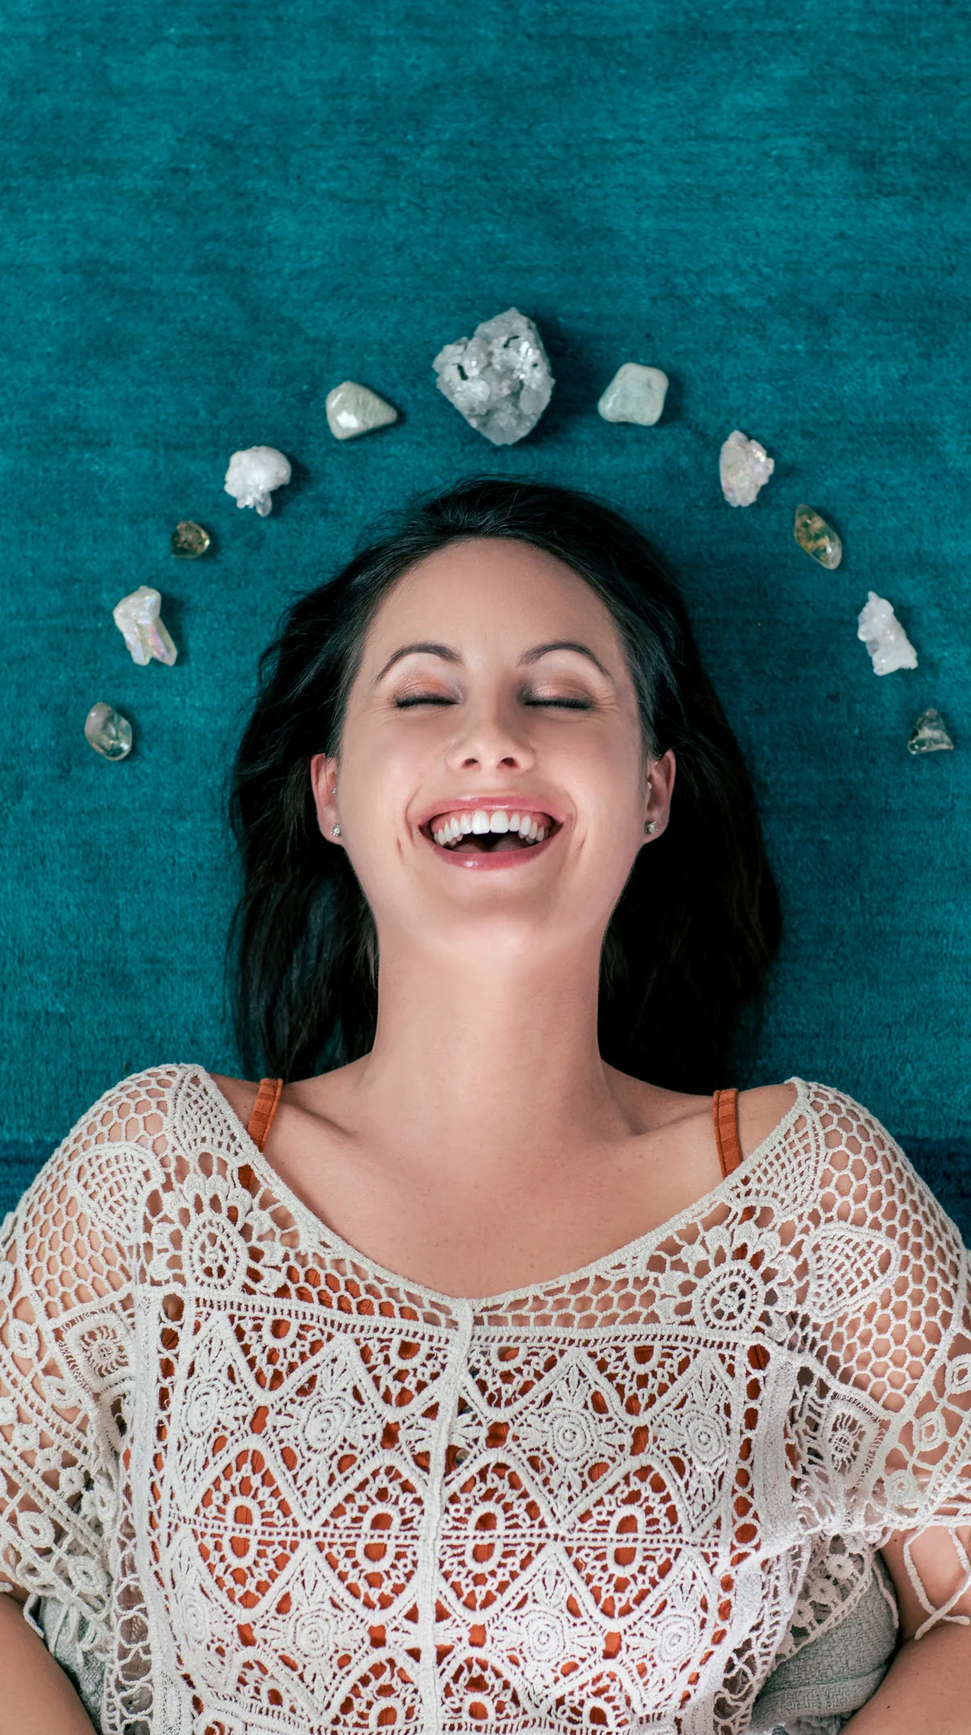
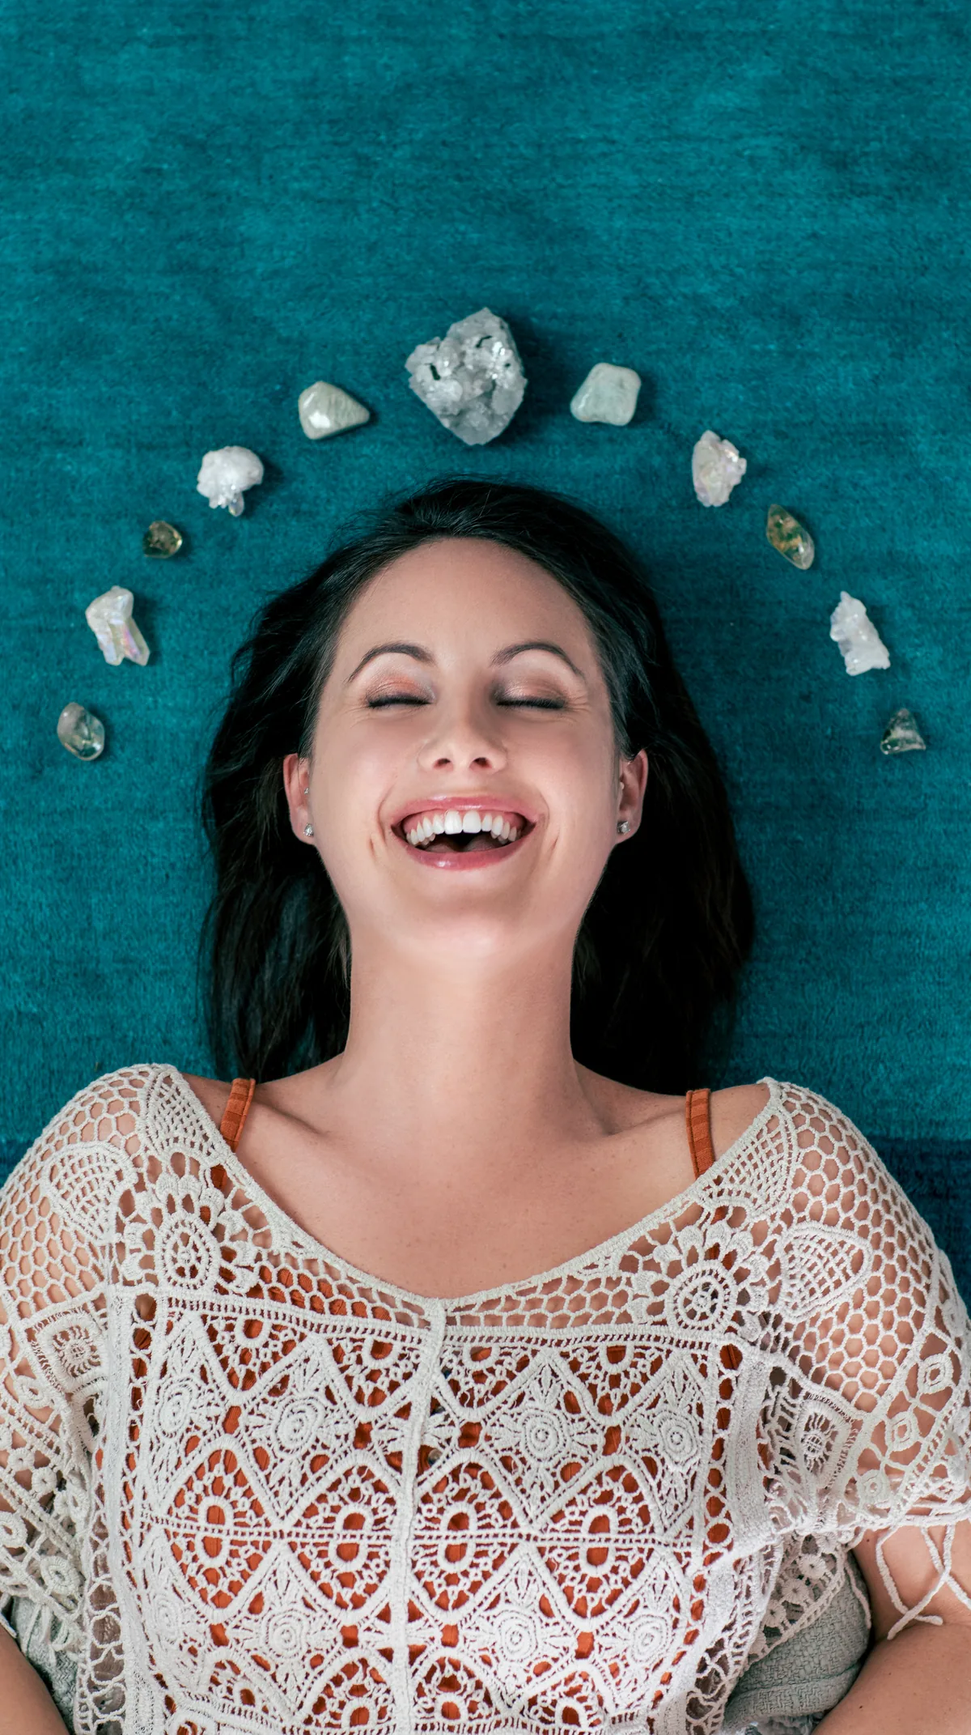
Happy is the page's own hero, and the lab becomes a chooser the client can use
THE PHOTOGRAPH. The woman on teal, laughing, an arc of clear quartz laid
around her head - Clay: "lets use happy for now". The <picture> now ships
her; stacks stays in the table as one of the options.

THE DESKTOP CROP. A 2:1 band holds a third of this photograph's height,
and the arc's top stone to her chin is two fifths, so the band cannot
hold both. Clay asked for the stones: object-position 50% 26% shows the
whole arc with air above the top stone and keeps the laugh; the chin
goes, and the headline sits over her hair on the left.

THE PHONE CROP. The arc is 2.4% right of the photograph's centre, which
on a phone read as more teal on the left than the right. The phone crop
is cut around the arc's centre now (found by the stones themselves: the
low-saturation, high-value pixels in the top half), not the photograph's.

THE CHOOSER. Clay: "get rid of the other filters.. just keep images" and
"could we add a little pop up to the vercel link?? so they can switch
between images?". The rail, the wave and the copy toggles are gone. What
is left is a small CHANGE PHOTO pill bottom-right that opens a strip of
eleven thumbnails. A pick is remembered in the browser, so the client
sees their choice on every reload rather than on one; a shared ?hero=
link wins over the memory and becomes it; ?lab=1 opens the strip on
arrival; ?lab=0 removes the pill for a clean demo.

THE ELEVEN, in Clay's order: happy, med, amethyst, mono, pendant, knit,
[…]

diff --git a/index.html b/index.html
@@ -292,7 +292,7 @@ html{scroll-padding-top:96px;}
 .hero{--hero-ink:#FFFFFF;--hero-soft:#E9E0D3;--hero-sub:#F0C79C;
   --hero-accent:#E8B183;--hero-shadow:0 2px 26px rgba(12,8,4,.5);}
 .hero-shot{position:absolute;inset:0;width:100%;height:100%;object-fit:cover;
-  object-position:50% 38%;z-index:0;}
+  object-position:50% 26%;z-index:0;}
 /* the crop only ever slides sideways, and that is the axis that decides
    whether the device sits clear of the words. On a phone the frame is much
    narrower than the source, so it lifts to keep the product in view */
@@ -347,7 +347,7 @@ html{scroll-padding-top:96px;}
      gone the hero grows back into the room it leaves */
   body:not(:has(.emh-ann)) .hero{--hdr:90px;}
   .hero-shot{position:absolute;inset:0;flex:none;aspect-ratio:auto;height:100%;
-    object-position:50% 30%;}
+    object-position:50% 36%;}
   .hero picture{position:absolute;inset:0;display:block}
   .hero-bg{inset:0;height:auto;}
   .herowave{inset:0;height:100%;}
@@ -1816,14 +1816,14 @@ h1:has(> .s), h2:has(> .s){max-width:min(34ch,100%)}
   <div class="hero-grain" aria-hidden="true"></div>
   <picture id="heropic">
     <source media="(max-width:840px)" type="image/webp"
-            srcset="assets/img/life/em-hero-stacks-p-600.webp 600w, assets/img/life/em-hero-stacks-p-900.webp 900w, assets/img/life/em-hero-stacks-p-1200.webp 1200w"
+            srcset="assets/img/life/em-hero-happy-p-600.webp 600w, assets/img/life/em-hero-happy-p-900.webp 900w, assets/img/life/em-hero-happy-p-1200.webp 1200w"
             sizes="100vw">
     <source type="image/webp"
-            srcset="assets/img/life/em-hero-stacks-1200.webp 1200w, assets/img/life/em-hero-stacks-1800.webp 1800w, assets/img/life/em-hero-stacks-2400.webp 2400w"
+            srcset="assets/img/life/em-hero-happy-1200.webp 1200w, assets/img/life/em-hero-happy-1800.webp 1800w, assets/img/life/em-hero-happy-2400.webp 2400w"
             sizes="100vw">
-    <img class="hero-shot" src="assets/img/life/em-hero-stacks.jpg"
+    <img class="hero-shot" src="assets/img/life/em-hero-happy.jpg"
          fetchpriority="high" decoding="async"
-         alt="A woman resting her chin on her hands, stacked crystal bracelets on both wrists">
+         alt="A woman lying on teal, laughing, an arc of clear quartz laid around her head">
   </picture>
   <canvas class="herowave" id="herowave" aria-hidden="true"></canvas>
   <div class="wrap hero-grid">
@@ -2571,199 +2571,132 @@ document.querySelectorAll('.reel[data-video]').forEach(function(r){
 
 <script src="/assets/em-form.js?v=1" defer></script>
 <script>
-/* The hero lab.
+/* The hero chooser.
  *
- * Every decision about this hero so far has been made from a contact sheet or
- * a screenshot. These flags make it on the real page instead, with real type
- * over real photographs at the real widths, and nothing here touches the
- * default: no parameter, no effect.
+ * Eleven photographs, chosen on Sept 2 from two Drive drops and the older
+ * candidates. The page ships with happy; the other ten are here so the
+ * client can flip between them on the live prototype without editing a URL.
+ * A small pill sits bottom-right and opens a strip of thumbnails. A pick is
+ * remembered in this browser, so the whole review session shows it - a
+ * chooser that forgets on the next page is a demo of the chooser, not of
+ * the photograph.
  *
- *   ?hero=<name>                 any photograph in HEROES below (stacks is the page's own)
- *   ?type=rail                   the frequency plinth under the headline
- *   ?copy=seven                 the subhead the rail sets up
- *   ?lab=1                      the switcher, so nobody edits a URL by hand
+ *   ?hero=<name>   one photograph, and a link that shares it
+ *   ?lab=1         open the strip on arrival
+ *   ?lab=0         no pill at all - a clean demo
  *
  * The photograph swap runs before paint so the browser never fetches the
  * default first - a hero that flickers between two pictures is a worse
- * comparison than either on its own. The DOM additions wait for the frequency
- * list, which is deferred. */
+ * comparison than either on its own. Nothing here touches the crop rules or
+ * the type; each entry only carries where its own face is. */
 (function () {
   var q = location.search;
   function get(k) { var m = q.match(new RegExp('[?&]' + k + '=([^&]*)')); return m ? decodeURIComponent(m[1]) : ''; }
-  var hero = get('hero'), types = get('type').split(',').filter(Boolean), copy = get('copy');
-  var lab = get('lab') === '1' || hero || types.length || copy;
-  if (!lab) return;
+  var KEY = 'em-hero';
+  function stored() { try { return localStorage.getItem(KEY) || ''; } catch (e) { return ''; } }
+  function store(v) { try { if (v && v !== 'happy') localStorage.setItem(KEY, v); else localStorage.removeItem(KEY); } catch (e) {} }
 
+  /* in the order Clay ranked them; happy is the page's own (Sept 2) */
   var HEROES = {
-    /* stacks is the page's own hero; it is in this table so the lab can set
-       its crop explicitly rather than by falling through */
-    stacks:  { base: 'em-hero-stacks',  pos: '50% 38%', posMobile: '50% 30%',
-      alt: 'A woman resting her chin on her hands, stacked crystal bracelets on both wrists' },
-    sphere:  { base: 'em-hero-sphere',  pos: '50% 50%', posMobile: '50% 45%',
-      alt: 'Two hands cupping a lapis lazuli sphere, a white dress and the sea behind' },
-    hands:   { base: 'em-hero-hands',   pos: '50% 50%', posMobile: '50% 40%',
-      alt: 'Three hands meeting on the sand, crystal bracelets on each wrist' },
-    wrist:   { base: 'em-hero-wrist',   pos: '50% 50%', posMobile: '50% 42%',
-      alt: 'A wrist wearing crystal bracelets, resting on a towel on the sand' },
-    geode:   { base: 'em-hero-geode',   pos: '50% 46%', posMobile: '50% 40%',
-      alt: 'A hand reaching for an amethyst geode on a wooden dresser by a window' },
-    still:   { base: 'em-hero-still',   pos: '50% 50%', posMobile: '50% 45%',
-      alt: 'A selenite tower, black tourmaline and a sage bundle on dark wood' },
-    sand:    { base: 'em-hero-sand',    pos: '50% 55%', posMobile: '50% 50%',
-      alt: 'A lapis lazuli sphere on wet sand at the edge of the sea' },
-    heather: { base: 'em-hero-heather', pos: '50% 30%', posMobile: '50% 30%',
-      alt: 'Heather Askinosie standing beneath a tree' },
-    /* the four from the Drive, at PREVIEW resolution - 736px wide. Enough to
-       choose from, not enough to ship; the originals are still wanted. */
-    robe:    { base: 'em-hero-robe',    pos: '50% 46%', posMobile: '50% 40%', prev: true,
-      alt: 'A woman in a white robe holding a frequency generator to her chest, eyes closed' },
-    turq:    { base: 'em-hero-turq',    pos: '50% 50%', posMobile: '50% 40%', prev: true,
-      alt: 'A turquoise bead necklace with a gold spiral pendant, golden hour' },
-    eye:     { base: 'em-hero-eye',     pos: '50% 46%', posMobile: '50% 38%', prev: true,
-      alt: 'A lapis evil-eye necklace on a collarbone, golden hour' },
-    flatlay: { base: 'em-hero-flatlay', pos: '50% 50%', posMobile: '50% 50%', prev: true,
-      alt: 'A frequency generator on oak with sage, obsidian and pampas grass' },
-    med:     { base: 'em-hero-med',     pos: '50% 62%', posMobile: '50% 42%',
-      alt: 'Someone sitting in meditation on a mat, a wall of tall cacti behind them' },
-    /* the eight people from the second Drive drop, Sept 2 - full resolution
-       this time. Each mobile crop was cut around the face, not the middle:
-       a phone shows 37% of a landscape photograph's width, so the crop is
-       the choice. duo is the founders, and belongs to the founders band
-       more than to the hero; it is here so it can be compared. */
-    quartz:  { base: 'em-hero-quartz', pos: '50% 49%', posMobile: '50% 100%',
-      alt: 'A woman smiling at the camera, a clear quartz point in her hand, a macramé wall hanging behind her' },
-    glance:  { base: 'em-hero-glance', pos: '50% 22%', posMobile: '50% 36%',
-      alt: 'A woman looking up and smiling, a small clear quartz point held in her fingers' },
-    amethyst:{ base: 'em-hero-amethyst', pos: '50% 49%', posMobile: '50% 100%',
-      alt: 'A woman in a denim jacket holding an amethyst cluster to her forehead, eyes closed' },
-    happy:   { base: 'em-hero-happy', pos: '50% 45%', posMobile: '50% 36%',
+    happy:    { base: 'em-hero-happy',    pos: '50% 26%', posMobile: '50% 36%',
       alt: 'A woman lying on teal, laughing, an arc of clear quartz laid around her head' },
-    mono:    { base: 'em-hero-mono', pos: '50% 50%', posMobile: '50% 100%',
+    med:      { base: 'em-hero-med',      pos: '50% 62%', posMobile: '50% 42%',
+      alt: 'Someone sitting in meditation on a mat, a wall of tall cacti behind them' },
+    amethyst: { base: 'em-hero-amethyst', pos: '50% 49%', posMobile: '50% 100%',
+      alt: 'A woman in a denim jacket holding an amethyst cluster to her forehead, eyes closed' },
+    mono:     { base: 'em-hero-mono',     pos: '50% 50%', posMobile: '50% 100%',
       alt: 'A woman in a black top holding an amethyst cluster to her forehead, eyes closed, on white' },
-    pendant: { base: 'em-hero-pendant', pos: '50% 44%', posMobile: '50% 0%',
+    pendant:  { base: 'em-hero-pendant',  pos: '50% 44%', posMobile: '50% 0%',
       alt: 'A woman in a denim jacket looking down at the pendant she is holding, on pale blue' },
-    knit:    { base: 'em-hero-knit', pos: '50% 18%', posMobile: '50% 0%',
+    knit:     { base: 'em-hero-knit',     pos: '50% 18%', posMobile: '50% 0%',
       alt: 'A woman in a knit top holding an amethyst cluster to her forehead, on white' },
-    duo:     { base: 'em-hero-duo', pos: '50% 0%', posMobile: '50% 0%',
-      alt: 'The founders, Heather Askinosie and Timmi Jandro, standing in a field of wildflowers' }
+    duo:      { base: 'em-hero-duo',      pos: '50% 0%',  posMobile: '50% 0%',
+      alt: 'The founders, Heather Askinosie and Timmi Jandro, standing in a field of wildflowers' },
+    stacks:   { base: 'em-hero-stacks',   pos: '50% 38%', posMobile: '50% 30%',
+      alt: 'A woman resting her chin on her hands, stacked crystal bracelets on both wrists' },
+    hands:    { base: 'em-hero-hands',    pos: '50% 50%', posMobile: '50% 40%',
+      alt: 'Three hands meeting on the sand, crystal bracelets on each wrist' },
+    wrist:    { base: 'em-hero-wrist',    pos: '50% 50%', posMobile: '50% 42%',
+      alt: 'A wrist wearing crystal bracelets, resting on a towel on the sand' },
+    geode:    { base: 'em-hero-geode',    pos: '50% 46%', posMobile: '50% 40%',
+      alt: 'A hand reaching for an amethyst geode on a wooden dresser by a window' }
   };
-  var H = HEROES[hero];
-  var css = '';
 
-  if (H) {
+  /* a shared link wins over the remembered pick, and becomes it */
+  var hero = get('hero') || stored();
+  if (!HEROES[hero]) hero = 'happy';
+  if (get('hero')) store(hero);
+  var H = HEROES[hero];
+
+  if (hero !== 'happy') {
     var pic = document.getElementById('heropic');
     var src = pic ? pic.querySelectorAll('source') : [], img = pic ? pic.querySelector('img') : null;
     var P = '/assets/img/life/' + H.base;
-    /* the previews only exist at 600 and 736, so their srcset must not
-       promise a 1200 the browser would then fetch and fail on */
-    if (H.prev) {
-      if (src[0]) src[0].srcset = P + '-p-600.webp 600w, ' + P + '-p-736.webp 736w';
-      if (src[1]) src[1].srcset = P + '-736.webp 736w';
-    } else {
-      if (src[0]) src[0].srcset = P + '-p-600.webp 600w, ' + P + '-p-900.webp 900w, ' + P + '-p-1200.webp 1200w';
-      if (src[1]) src[1].srcset = P + '-1200.webp 1200w, ' + P + '-1800.webp 1800w, ' + P + '-2400.webp 2400w';
-    }
+    if (src[0]) src[0].srcset = P + '-p-600.webp 600w, ' + P + '-p-900.webp 900w, ' + P + '-p-1200.webp 1200w';
+    if (src[1]) src[1].srcset = P + '-1200.webp 1200w, ' + P + '-1800.webp 1800w, ' + P + '-2400.webp 2400w';
     if (img) { img.src = P + '.jpg'; img.alt = H.alt; }
-    css += '.hero-shot{object-position:' + H.pos + '}'
-      + '@media (max-width:840px){.hero-shot{object-position:' + H.posMobile + '}'
-      + '.hero-bg{background:linear-gradient(180deg,rgba(20,14,7,.26) 0%,rgba(20,14,7,.06) 22%,'
-      + 'rgba(20,14,7,0) 40%,rgba(20,14,7,.20) 56%,rgba(20,14,7,.52) 70%,rgba(20,14,7,.78) 86%,'
-      + 'rgba(20,14,7,.86) 100%)}}';
+    var st = document.createElement('style');
+    st.textContent = '.hero-shot{object-position:' + H.pos + '}'
+      + '@media (max-width:840px){.hero-shot{object-position:' + H.posMobile + '}}';
+    document.head.appendChild(st);
   }
 
-  /* A: the frequency rail. The seven numbers are the one thing on this page no
-     other wellness brand can run. They sit under the hero already, as a
-     marquee; here they come up into it as a plinth the headline stands on, and
-     the band below retires so the same seven are not shown twice in a row. */
-  if (types.indexOf('rail') > -1) {
-    css += '.hero .hzrail{position:absolute;left:0;right:0;bottom:0;z-index:5;display:flex;'
-      + 'justify-content:space-between;align-items:baseline;gap:6px;'
-      + 'padding:11px clamp(20px,5vw,60px);border-top:1px solid rgba(255,255,255,.2);'
-      + 'background:rgba(20,14,7,.30);backdrop-filter:blur(10px);-webkit-backdrop-filter:blur(10px);'
-      + 'font-family:var(--serif);font-weight:300;color:rgba(255,255,255,.58);'
-      + 'font-size:clamp(12.5px,1.35vw,17px);letter-spacing:.01em;white-space:nowrap}'
-      + '.hero .hzrail span{display:inline-flex;align-items:baseline;gap:.34em}'
-      + '.hero .hzrail i{font-style:normal;font-family:var(--sans);font-weight:600;font-size:.56em;'
-      + 'letter-spacing:.16em;text-transform:uppercase;opacity:.75}'
-      + '.hero .hzrail b{font-weight:300;color:#F0C79C}'
-      + '.hero .hzrail b::before{content:"";display:inline-block;width:5px;height:5px;border-radius:50%;'
-      + 'background:#F0C79C;box-shadow:0 0 0 3px rgba(240,199,156,.22);margin-right:.5em;vertical-align:middle}'
-      + '.hero-grid{padding-bottom:calc(clamp(26px,5vh,64px) + 54px)}'
-      + '@media (max-width:840px){.hero-grid{padding-bottom:calc(clamp(34px,7vh,64px) + 48px)}'
-      + '.hero .hzrail i{display:none}}'
-      + '.hzband{display:none}';
-  }
-
-  /* The animated wave canvas was drawn for a product shot on a dark floor. Over
-     a photograph of a person it draws hairlines across her face, which reads
-     as a rendering fault rather than as atmosphere. Off whenever a real
-     photograph is in; ?wave=1 brings it back for the comparison. */
-  if (get('wave') === '1') css += '.herowave{display:block}';
-  if (css) { var st = document.createElement('style'); st.textContent = css; document.head.appendChild(st); }
+  if (get('lab') === '0') return;
 
   function ready() {
-    var hero = document.querySelector('.hero');
-    var h1 = hero && hero.querySelector('h1');
-    var sub = hero && hero.querySelector('.sub');
+    if (!document.querySelector('.hero') || document.querySelector('.hpick')) return;
+    var pill = document.createElement('button');
+    pill.type = 'button'; pill.className = 'hpick'; pill.setAttribute('aria-expanded', 'false');
+    pill.innerHTML = '<svg width="14" height="14" viewBox="0 0 24 24" fill="none" stroke="currentColor" stroke-width="1.8" aria-hidden="true">'
+      + '<rect x="3" y="5" width="18" height="14" rx="2.5"/><circle cx="9" cy="10.5" r="1.8"/>'
+      + '<path d="M21 16l-5.2-5.2a1 1 0 0 0-1.4 0L7 18"/></svg>Change photo';
 
-    if (types.indexOf('rail') > -1 && hero && !hero.querySelector('.hzrail')) {
-      var list = (window.EM_FREQ || []).map(function (f) { return f.hz; });
-      if (!list.length) list = ['7.83', '174', '417', '528', '639', '963', '1111'];
-      var sh = window.EM_FREQ_BY && window.EM_FREQ_BY.short;
-      hero.insertAdjacentHTML('beforeend', '<div class="hzrail" aria-label="The seven tuned frequencies">'
-        + list.map(function (hz) {
-            var lab = sh ? '<i>' + sh(hz) + '</i>' : '';
-            return String(hz) === '528'
-              ? '<span><b>' + hz + '</b>' + lab + '</span>'
-              : '<span>' + hz + lab + '</span>';
-          }).join('') + '</div>');
-    }
-    if (copy === 'seven' && sub) sub.textContent = 'Seven frequencies. One is yours.';
+    var strip = document.createElement('div');
+    strip.className = 'hstrip'; strip.setAttribute('role', 'group'); strip.setAttribute('aria-label', 'Hero photograph');
+    strip.innerHTML = Object.keys(HEROES).map(function (k) {
+      var on = k === hero;
+      return '<a class="ht' + (on ? ' on' : '') + '" href="' + location.pathname + '?hero=' + k + '" data-hero="' + k + '"'
+        + (on ? ' aria-current="true"' : '') + ' aria-label="' + HEROES[k].alt.replace(/"/g, '&quot;') + '">'
+        + '<img src="/assets/img/life/' + HEROES[k].base + '-p-600.webp" alt="" loading="lazy" decoding="async"></a>';
+    }).join('');
+    strip.addEventListener('click', function (e) {
+      var a = e.target.closest ? e.target.closest('a[data-hero]') : null;
+      if (a) store(a.getAttribute('data-hero'));
+    });
 
-    /* the switcher */
-    var cur = { hero: hero ? (H ? get('hero') : 'family') : 'family' };
-    function link(params) {
-      var o = { hero: get('hero'), type: types.join(','), copy: copy, wave: get('wave'), lab: '1' };
-      for (var k in params) o[k] = params[k];
-      var out = [];
-      for (var k2 in o) if (o[k2]) out.push(k2 + '=' + encodeURIComponent(o[k2]));
-      return location.pathname + '?' + out.join('&');
+    function open(v) {
+      strip.classList.toggle('open', v); pill.setAttribute('aria-expanded', String(v));
+      if (v) { var on = strip.querySelector('.on'); if (on && on.scrollIntoView) on.scrollIntoView({ block: 'nearest', inline: 'center' }); }
     }
-    function tog(name) {
-      var t = types.slice(); var i = t.indexOf(name);
-      if (i > -1) t.splice(i, 1); else t.push(name);
-      return link({ type: t.join(',') });
-    }
-    var on = function (b) { return b ? ' on' : ''; };
-    var panel = document.createElement('div');
-    panel.className = 'herolab';
-    panel.innerHTML =
-        '<b>hero</b>'
-      + Object.keys(HEROES).map(function (k) {
-          var isHome = (k === 'stacks');
-          var active = isHome ? (!get('hero') || get('hero') === 'stacks') : (get('hero') === k);
-          return '<a class="hl' + on(active) + '" href="' + link({ hero: isHome ? '' : k }) + '">' + k + '</a>';
-        }).join('')
-      + '<b>type</b>'
-      + '<a class="hl' + on(types.indexOf('rail') > -1) + '" href="' + tog('rail') + '">rail</a>'
-      + '<b>wave</b>'
-      + '<a class="hl' + on(get('wave') === '1') + '" href="' + link({ wave: get('wave') === '1' ? '' : '1' }) + '">on</a>'
-      + '<b>copy</b>'
-      + '<a class="hl' + on(copy === 'seven') + '" href="' + link({ copy: copy === 'seven' ? '' : 'seven' }) + '">seven</a>'
-      + '<a class="hl x" href="' + location.pathname + '">exit</a>';
+    pill.addEventListener('click', function () { open(!strip.classList.contains('open')); });
+    document.addEventListener('keydown', function (e) { if (e.key === 'Escape') open(false); });
+    document.addEventListener('click', function (e) {
+      if (!strip.contains(e.target) && !pill.contains(e.target)) open(false);
+    });
+
     var ps = document.createElement('style');
-    ps.textContent = '.herolab{position:fixed;right:12px;bottom:12px;z-index:99999;display:flex;flex-wrap:wrap;'
-      + 'align-items:center;gap:4px;max-width:calc(100vw - 24px);padding:8px 10px;border-radius:12px;'
-      + 'background:rgba(20,14,7,.9);color:#EAE0D0;font:600 11px/1 "Instrument Sans",sans-serif;'
-      + 'box-shadow:0 12px 40px rgba(0,0,0,.35);backdrop-filter:blur(8px)}'
-      + '.herolab b{font-weight:600;font-size:9px;letter-spacing:.18em;text-transform:uppercase;opacity:.5;'
-      + 'margin:0 4px 0 6px}.herolab b:first-child{margin-left:0}'
-      + '.herolab a{color:inherit;text-decoration:none;padding:9px 11px;min-height:34px;display:inline-flex;'
-      + 'align-items:center;border-radius:999px;border:1px solid rgba(255,255,255,.18)}'
-      + '.herolab a.on{background:#F0C79C;color:#1A1208;border-color:#F0C79C}'
-      + '.herolab a.x{opacity:.6;margin-left:6px}.herolab a:hover{border-color:rgba(255,255,255,.6)}';
+    ps.textContent = '.hpick{position:fixed;right:14px;bottom:14px;z-index:9999;display:inline-flex;align-items:center;gap:8px;'
+      + 'min-height:42px;padding:0 16px 0 14px;border-radius:999px;cursor:pointer;'
+      + 'background:rgba(20,14,7,.74);color:#F2EADF;border:1px solid rgba(255,255,255,.22);'
+      + 'font:600 11px/1 "Instrument Sans",sans-serif;letter-spacing:.14em;text-transform:uppercase;'
+      + 'box-shadow:0 10px 30px rgba(0,0,0,.28);backdrop-filter:blur(10px);-webkit-backdrop-filter:blur(10px)}'
+      + '.hpick:hover{border-color:rgba(255,255,255,.55)}'
+      + '.hpick:focus-visible{outline:2px solid #F0C79C;outline-offset:2px}'
+      + '.hstrip{position:fixed;right:14px;bottom:66px;z-index:9999;display:none;gap:6px;'
+      + 'max-width:calc(100vw - 28px);overflow-x:auto;overscroll-behavior-x:contain;scrollbar-width:none;'
+      + 'padding:8px;border-radius:14px;background:rgba(20,14,7,.82);'
+      + 'box-shadow:0 14px 40px rgba(0,0,0,.35);backdrop-filter:blur(10px);-webkit-backdrop-filter:blur(10px)}'
+      + '.hstrip::-webkit-scrollbar{display:none}.hstrip.open{display:flex}'
+      + '.hstrip .ht{flex:none;width:64px;height:100px;border-radius:8px;overflow:hidden;'
+      + 'border:2px solid transparent;opacity:.78;transition:.18s}'
+      + '.hstrip .ht img{width:100%;height:100%;object-fit:cover;display:block}'
+      + '.hstrip .ht:hover{opacity:1}.hstrip .ht.on{opacity:1;border-color:#F0C79C}'
+      + '.hstrip .ht:focus-visible{outline:2px solid #F0C79C;outline-offset:1px;opacity:1}'
+      + '@media (prefers-reduced-motion:reduce){.hstrip .ht{transition:none}}';
     document.head.appendChild(ps);
-    document.body.appendChild(panel);
+    document.body.appendChild(strip);
+    document.body.appendChild(pill);
+    if (get('lab') === '1') open(true);
   }
   if (document.readyState === 'loading') document.addEventListener('DOMContentLoaded', ready);
   else ready();
